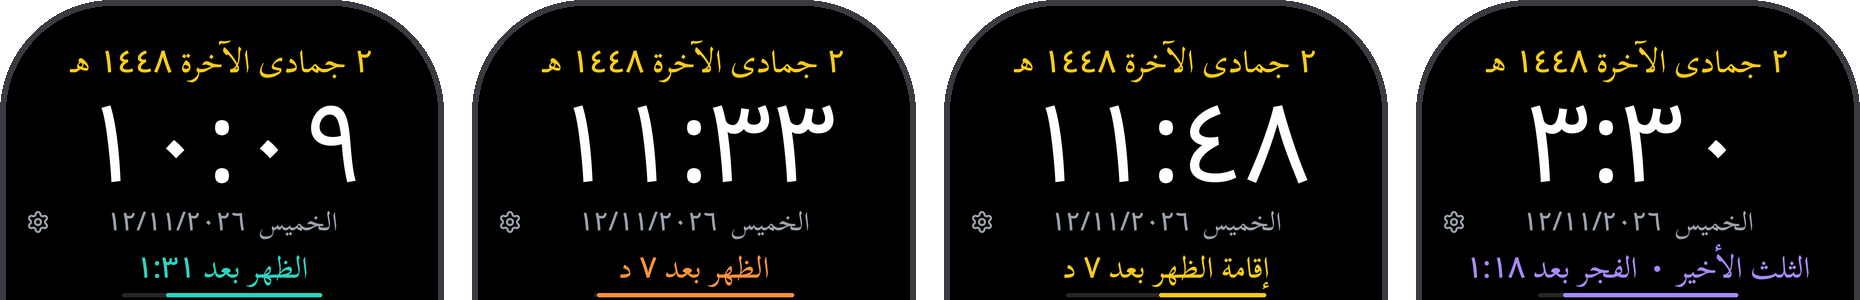
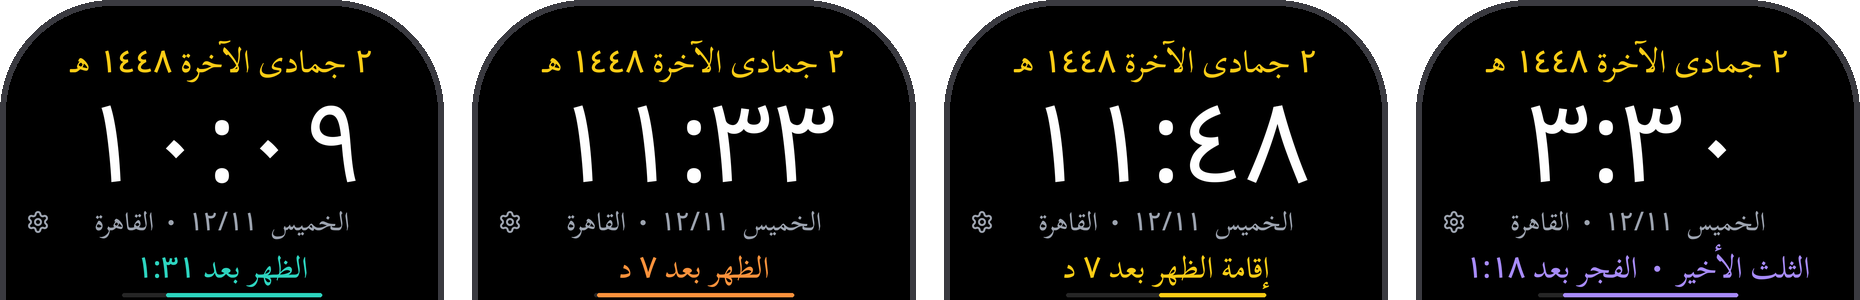
feat(watchface): shorten long place names to fit the date line
The date line beside ⚙ is 336 px, and a full date left 65-97 px for the place, so most city names
(and typed-in coordinates) ran over. With a place the line now drops the year ("Thu 12 Nov  •
Cairo"; the Hijri line has one), and a place that still doesn't fit is cut with "…". Coordinates
lose their ° signs there and fall back to whole degrees instead of being cut; the menu's Location
row shows them exactly, and shortens long city names the same way.

The watch can't measure text in our font, so lib/i18n/text.js adds up estimated character widths
from lib/text-width.js. tools/gen-text-width.py generates them by shaping every date and city name
with HarfBuzz (Naskh for Arabic, Noto Sans standing in for the system font), with a margin on
letters, and a reserve for a cut Arabic name's wider final letter. It then builds every city's
date line on each language's three widest dates with the face's own code and fails if any is
wider than the box in the real font. On those dates 13-30% of names are shortened.

The README screenshots and the picker preview now show the place, as the face does.

diff --git a/prayer-times-watchface/lib/i18n/text.js b/prayer-times-watchface/lib/i18n/text.js
@@ -2,6 +2,7 @@
 // and the docs/preview generators (tools/*.mjs), so screenshots show the face's own text.
 // digits(s): the face's digit style (Arabic-Indic or Latin) applied to a string.
 import { LANGS, DEFAULT_LANG } from './index.js'
+import { TEXT_WIDTH } from '../text-width.js'
 
 export const strings = (lang) => LANGS[lang] || LANGS[DEFAULT_LANG]
 
@@ -19,10 +20,44 @@ const pad = (n) => (n < 10 ? '0' + n : '' + n)
 export const hijriLine = (T, h, digits) =>
   line(T, T.hijriDate({ d: digits(h.day), mon: T.hijriMonths[h.month - 1], m: digits(h.month), y: digits(h.year) }))
 
+// Estimated width of s in px at the font's TEXT_WIDTH size (lib/text-width.js, generated)
+const estimate = (font, s) => {
+  let w = 0
+  for (const c of s) w += font.w[c] || font.other
+  return w
+}
+
+// s cut with "…" until the estimate fits room (px at TEXT_WIDTH.size); s itself when it fits.
+// font.cut: extra room a cut needs (an Arabic letter before "…" takes its wider final form).
+export function fitText(font, s, room) {
+  if (estimate(font, s) <= room) return s
+  const ellipsis = estimate(font, '…') + font.cut
+  let n = s.length
+  while (n > 1 && estimate(font, s.slice(0, n)) + ellipsis > room) n--
+  return s.slice(0, n).trimEnd() + '…'
+}
+
+// s shortened with "…" to fit box ({ w, text_size }, a lib/layout.js text box), in T's font
+export function fitBox(T, s, box) {
+  return fitText(TEXT_WIDTH[T.rtl ? 'naskh' : 'system'], s, box.w * TEXT_WIDTH.size / box.text_size)
+}
+
+// The date line: "Thu 12 Nov 2026", or with a place "Thu 12 Nov  •  Cairo" (no year: the Hijri line
+// above has one, and the place needs the room). place: a string, or candidates longest first (e.g.
+// coordinates to 0.1°, then to 1°): the first that fits is used. box ({ w, text_size }, the date
+// line's lib/layout.js box) shortens the last candidate to fit; without it the first is kept whole.
 // weekday: 0 = Sunday; month 1-12
-export const gregLine = (T, { weekday, d, m, y }, digits, place) =>
-  line(T, T.date({ wd: T.weekdays[weekday], d: digits(d), mon: T.months[m - 1], m: digits(m), y: digits(y) }) +
-    (place ? `  •  ${place}` : ''))
+export function gregLine(T, { weekday, d, m, y }, digits, place, box) {
+  const p = { wd: T.weekdays[weekday], d: digits(d), mon: T.months[m - 1], m: digits(m), y: digits(y) }
+  const places = Array.isArray(place) ? place : [place]
+  if (!places[0]) return line(T, T.date(p))
+  const date = `${T.dateShort(p)}  •  `
+  if (!box) return line(T, date + places[0])
+  const font = TEXT_WIDTH[T.rtl ? 'naskh' : 'system']
+  const room = box.w * TEXT_WIDTH.size / box.text_size - estimate(font, date)
+  const fits = places.find((s) => estimate(font, s) <= room)
+  return line(T, date + (fits || fitText(font, places[places.length - 1], room)))
+}
 
 // Prayer name, Jumu'ah for Dhuhr on Fridays
 export const prayerName = (T, k, isFriday) => (k === 'dhuhr' && isFriday ? T.jumuah : T.prayers[k])

diff --git a/prayer-times-watchface/lib/text-width.js b/prayer-times-watchface/lib/text-width.js
@@ -1,0 +1,6 @@
+// GENERATED by tools/gen-text-width.py. Do not edit.
+// Estimated advance width of each character on the date line, in px at text size `size`, per font
+// (naskh: Arabic; system: the other languages), with a safety margin built in; `other` for
+// characters not listed, `cut` the extra room a shortened name needs. lib/i18n/text.js uses it
+// to shorten a long place name.
+export const TEXT_WIDTH = {"size":26,"naskh":{"cut":6,"other":26.6,"w":{" ":6.8,"'":4.6,"(":10.5,")":10.5,",":6.0,"-":7.9,".":7.1,"/":10.0,"0":14.9,"1":14.9,"2":14.9,"3":14.9,"4":14.9,"5":14.9,"6":14.9,"7":14.9,"8":14.9,"9":14.9,"A":19.5,"B":17.8,"C":18.5,"D":19.5,"E":16.9,"F":15.5,"G":20.0,"H":20.0,"I":9.4,"J":11.5,"K":20.0,"L":16.9,"M":24.5,"N":19.3,"O":20.0,"P":15.5,"Q":20.0,"R":18.5,"S":15.0,"T":17.0,"U":19.5,"V":19.5,"W":26.2,"X":19.5,"Y":19.5,"Z":17.0,"`":8.6,"a":12.5,"b":14.0,"c":12.2,"d":14.0,"e":12.1,"f":9.2,"g":13.8,"h":14.1,"i":7.9,"j":8.1,"k":14.1,"l":8.1,"m":21.8,"n":14.1,"o":13.6,"p":14.0,"q":14.0,"r":10.1,"s":10.9,"t":8.2,"u":14.1,"v":13.6,"w":19.7,"x":13.7,"y":13.7,"z":12.4,"،":12.0,"ء":12.1,"آ":6.6,"أ":7.4,"ؤ":11.0,"إ":6.8,"ئ":8.9,"ا":7.4,"ب":8.7,"ة":11.8,"ت":12.6,"ث":8.7,"ج":21.6,"ح":21.4,"خ":21.5,"د":14.7,"ذ":14.4,"ر":9.7,"ز":10.1,"س":22.5,"ش":21.5,"ص":26.6,"ض":26.4,"ط":19.3,"ظ":19.4,"ع":13.8,"غ":15.3,"ف":13.8,"ق":12.1,"ك":19.1,"ل":9.0,"م":14.0,"ن":11.2,"ه":14.6,"و":10.6,"ى":22.8,"ي":10.4,"٠":14.9,"١":14.9,"٢":14.9,"٣":14.9,"٤":14.9,"٥":14.9,"٦":14.9,"٧":14.9,"٨":14.9,"٩":14.9,"•":6.8,"…":24.3}},"system":{"cut":0,"other":25.0,"w":{" ":7.0,"'":5.1,",":7.2,"-":8.5,".":7.2,"/":10.0,"0":15.3,"1":15.3,"2":15.3,"3":15.3,"5":15.3,"6":15.3,"8":15.3,"9":15.3,"A":17.1,"B":17.4,"C":16.9,"D":19.5,"E":14.9,"F":13.9,"G":19.5,"H":19.8,"I":9.1,"J":7.3,"K":16.6,"L":14.0,"M":24.3,"N":20.4,"O":20.9,"P":16.2,"Q":20.9,"R":16.7,"S":14.7,"T":13.5,"U":19.6,"V":15.8,"W":24.4,"X":15.7,"Y":14.0,"Z":15.3,"`":7.5,"a":15.0,"b":16.5,"c":12.9,"d":16.5,"e":15.1,"f":9.1,"g":16.5,"h":16.5,"i":6.9,"j":6.9,"k":14.3,"l":6.9,"m":25.0,"n":16.5,"o":16.2,"p":16.5,"q":16.5,"r":10.6,"s":12.8,"t":9.7,"u":16.5,"v":13.5,"w":21.1,"x":14.1,"y":13.7,"z":12.6,"Ç":16.9,"é":14.8,"û":16.5,"ğ":16.5,"Ş":14.7,"В":17.4,"К":16.5,"П":19.6,"С":17.1,"Ч":18.0,"а":14.9,"б":16.0,"в":15.1,"г":11.7,"д":16.3,"е":14.8,"и":16.6,"к":14.2,"л":15.7,"м":20.6,"н":16.4,"о":15.8,"п":16.2,"р":16.3,"с":13.1,"т":12.5,"ф":19.7,"ю":21.4,"я":15.5,"٠":16.1,"١":16.1,"٢":16.1,"٣":16.1,"٥":16.1,"٦":16.1,"٨":16.1,"٩":16.1,"•":10.1,"…":21.2}}}

diff --git a/prayer-times-watchface/watchface/index.js b/prayer-times-watchface/watchface/index.js
@@ -20,7 +20,7 @@ import { WEATHER_ICONS } from '../lib/weather-icons.js'
 import { layout, DESIGN } from '../lib/layout.js'
 import { resolveLang } from '../lib/i18n/index.js'
 import {
-  strings, line, hijriLine, gregLine, prayerName, nextLine, extraItems, rangeLine, MAKRUH_KEYS,
+  strings, line, hijriLine, gregLine, fitBox, prayerName, nextLine, extraItems, rangeLine, MAKRUH_KEYS,
 } from '../lib/i18n/text.js'
 
 const { createWidget, deleteWidget, widget, align, prop, show_level, event } = ui
@@ -83,7 +83,8 @@ function fmtClock(minOfDay) {
   return S.is24h ? pad(h) + ':' + mm : (h % 12 || 12) + ':' + mm
 }
 const fmtTime = (min) => (isNaN(min) ? '—' : digits(fmtClock(min)))
-const fmtCoord = (v) => (v < 0 ? '-' : '') + digits(Math.abs(v).toFixed(1))
+// a coordinate to `decimals` places, with no sign when it rounds to zero (-0.04 → 0.0)
+const fmtCoord = (v, decimals = 1) => (Number(v.toFixed(decimals)) < 0 ? '-' : '') + digits(Math.abs(v).toFixed(decimals))
 
 // Local timezone offset in hours, derived from the Time sensor so it follows the
 // phone's timezone and DST without relying on QuickJS's Date timezone support.
@@ -439,7 +440,7 @@ WatchFace({
       watchLang: () => resolveLang('auto', watchLanguage()),
       digits,
       accent: C_TEAL,
-      place: () => state.place || T.fromApp,
+      place: () => fitBox(T, state.place || T.fromApp, LY.menu.row[0].value), // the Location row's value
       message: (s) => menu.message(s),
       close: () => menu.close(),
       changed: () => { settingsChanged = true },
@@ -529,9 +530,12 @@ WatchFace({
         place: loc.source === 'fallback' ? T.fallbackPlace
           : loc.source === 'city' ? (!T.rtl && loc.latin) || loc.name
           : loc.source === 'coords' ? T.coords(fmtCoord(loc.lat), fmtCoord(loc.lon)) : '',
+        // the date line falls back to whole degrees when 0.1° doesn't fit (the menu shows them exactly)
+        placeLine: loc.source === 'coords'
+          ? [T.coords(fmtCoord(loc.lat), fmtCoord(loc.lon)), T.coords(fmtCoord(loc.lat, 0), fmtCoord(loc.lon, 0))] : null,
         cc: loc.cc,
       }
-      const greg = gregLine(T, { weekday: time.getDay() % 7, d, m, y }, digits, state.place) // getDay(): Monday = 1
+      const greg = gregLine(T, { weekday: time.getDay() % 7, d, m, y }, digits, state.placeLine || state.place, LY.greg) // getDay(): Monday = 1
       setText(w.aodGreg, greg)
       if (w.time) {
         for (const k of PRAYER_ORDER) {

diff --git a/prayer-times-watchface/lib/i18n/ar.js b/prayer-times-watchface/lib/i18n/ar.js
@@ -14,6 +14,7 @@ export default {
   // { d, y }: formatted numbers; mon: month name; m: formatted month number; wd: weekday
   hijriDate: (p) => `${p.d} ${p.mon} ${p.y} هـ`,
   date: (p) => `${p.wd}  ${p.d}/${p.m}/${p.y}`,
+  dateShort: (p) => `${p.wd}  ${p.d}/${p.m}`, // without the year: the date line when a place follows it
   nextIn: (prayer, left) => `${prayer} بعد ${left}`,
   iqamaIn: (prayer, left) => `إقامة ${prayer} بعد ${left}`,
   minutes: (n) => `${n} د`,
@@ -27,7 +28,7 @@ export default {
   makruh: { dawn: 'من الفجر', sunrise: 'الشروق', zawal: 'الاستواء', afterAsr: 'بعد العصر', sunset: 'الغروب' },
   fallbackPlace: 'القاهرة', // config.js's fallback location
   fromApp: 'التطبيق', // place shown when the companion app's location is used
-  coords: (lat, lon) => `${lat}°، ${lon}°`, // typed-in coordinates on the date line; numbers already formatted
+  coords: (lat, lon) => `${lat}،${lon}`, // typed-in coordinates on the date line; numbers already formatted
   methods: {
     egypt: 'الهيئة المصرية', makkah: 'أم القرى', mwl: 'رابطة العالم', karachi: 'كراتشي',
     isna: 'أمريكا الشمالية', dubai: 'دبي', kuwait: 'الكويت', qatar: 'قطر', singapore: 'سنغافورة',

diff --git a/prayer-times-watchface/lib/i18n/ru.js b/prayer-times-watchface/lib/i18n/ru.js
@@ -12,6 +12,7 @@ export default {
   weekdays: ['Вс', 'Пн', 'Вт', 'Ср', 'Чт', 'Пт', 'Сб'],
   hijriDate: (p) => `${p.d} ${p.mon} ${p.y} г. х.`,
   date: (p) => `${p.wd} ${p.d} ${p.mon} ${p.y}`,
+  dateShort: (p) => `${p.wd} ${p.d} ${p.mon}`,
   nextIn: (prayer, left) => `${prayer} через ${left}`,
   iqamaIn: (prayer, left) => `Икама (${prayer}) через ${left}`,
   minutes: (n) => `${n} мин`,
@@ -25,7 +26,7 @@ export default {
   makruh: { dawn: 'После Фаджра', sunrise: 'Восход', zawal: 'Зенит', afterAsr: 'После Асра', sunset: 'Закат' },
   fallbackPlace: 'Каир',
   fromApp: 'Приложение',
-  coords: (lat, lon) => `${lat}°, ${lon}°`,
+  coords: (lat, lon) => `${lat},${lon}`,
   methods: {
     egypt: 'Египет', makkah: 'Умм аль-Кура', mwl: 'Всемирная исламская лига', karachi: 'Карачи',
     isna: 'ISNA', dubai: 'Дубай', kuwait: 'Кувейт', qatar: 'Катар', singapore: 'Сингапур',

diff --git a/prayer-times-watchface/lib/i18n/tr.js b/prayer-times-watchface/lib/i18n/tr.js
@@ -12,6 +12,7 @@ export default {
   weekdays: ['Paz', 'Pzt', 'Sal', 'Çar', 'Per', 'Cum', 'Cmt'],
   hijriDate: (p) => `${p.d} ${p.mon} ${p.y}`,
   date: (p) => `${p.wd} ${p.d} ${p.mon} ${p.y}`,
+  dateShort: (p) => `${p.wd} ${p.d} ${p.mon}`,
   // "vakti" keeps the suffix the same for every prayer name
   nextIn: (prayer, left) => `${prayer} vaktine ${left}`,
   iqamaIn: (prayer, left) => `${prayer} kametine ${left}`,
@@ -26,7 +27,7 @@ export default {
   makruh: { dawn: 'İmsaktan', sunrise: 'Güneş', zawal: 'İstiva', afterAsr: 'İkindiden', sunset: 'Gün batımı' },
   fallbackPlace: 'Kahire',
   fromApp: 'Uygulama',
-  coords: (lat, lon) => `${lat}°, ${lon}°`,
+  coords: (lat, lon) => `${lat},${lon}`,
   methods: {
     egypt: 'Mısır', makkah: "Ümmü'l-Kura", mwl: 'Rabıta', karachi: 'Karaçi',
     isna: 'ISNA', dubai: 'Dubai', kuwait: 'Kuveyt', qatar: 'Katar', singapore: 'Singapur',

diff --git a/prayer-times-watchface/lib/i18n/fr.js b/prayer-times-watchface/lib/i18n/fr.js
@@ -12,6 +12,7 @@ export default {
   weekdays: ['dim.', 'lun.', 'mar.', 'mer.', 'jeu.', 'ven.', 'sam.'],
   hijriDate: (p) => `${p.d} ${p.mon} ${p.y} H`,
   date: (p) => `${p.wd} ${p.d} ${p.mon} ${p.y}`,
+  dateShort: (p) => `${p.wd} ${p.d} ${p.mon}`,
   nextIn: (prayer, left) => `${prayer} dans ${left}`,
   iqamaIn: (prayer, left) => `Iqama ${prayer} dans ${left}`,
   minutes: (n) => `${n} min`,
@@ -25,7 +26,7 @@ export default {
   makruh: { dawn: 'Après Fajr', sunrise: 'Lever', zawal: 'Zénith', afterAsr: 'Après Asr', sunset: 'Coucher' },
   fallbackPlace: 'Le Caire',
   fromApp: 'Appli',
-  coords: (lat, lon) => `${lat}°, ${lon}°`,
+  coords: (lat, lon) => `${lat},${lon}`,
   methods: {
     egypt: 'Égypte', makkah: 'Umm al-Qura', mwl: 'Ligue islamique mondiale', karachi: 'Karachi',
     isna: 'ISNA', dubai: 'Dubaï', kuwait: 'Koweït', qatar: 'Qatar', singapore: 'Singapour',

diff --git a/prayer-times-watchface/lib/i18n/ms.js b/prayer-times-watchface/lib/i18n/ms.js
@@ -12,6 +12,7 @@ export default {
   weekdays: ['Ahd', 'Isn', 'Sel', 'Rab', 'Kha', 'Jum', 'Sab'],
   hijriDate: (p) => `${p.d} ${p.mon} ${p.y}H`,
   date: (p) => `${p.wd} ${p.d} ${p.mon} ${p.y}`,
+  dateShort: (p) => `${p.wd} ${p.d} ${p.mon}`,
   nextIn: (prayer, left) => `${prayer} dalam ${left}`,
   iqamaIn: (prayer, left) => `Iqamah ${prayer} dalam ${left}`,
   minutes: (n) => `${n} min`,
@@ -25,7 +26,7 @@ export default {
   makruh: { dawn: 'Selepas Subuh', sunrise: 'Syuruk', zawal: 'Istiwa', afterAsr: 'Selepas Asar', sunset: 'Terbenam' },
   fallbackPlace: 'Kaherah',
   fromApp: 'Aplikasi',
-  coords: (lat, lon) => `${lat}°, ${lon}°`,
+  coords: (lat, lon) => `${lat},${lon}`,
   methods: {
     egypt: 'Mesir', makkah: 'Umm al-Qura', mwl: 'Liga Muslim Sedunia', karachi: 'Karachi',
     isna: 'ISNA', dubai: 'Dubai', kuwait: 'Kuwait', qatar: 'Qatar', singapore: 'Singapura',

diff --git a/prayer-times-watchface/lib/i18n/id.js b/prayer-times-watchface/lib/i18n/id.js
@@ -12,6 +12,7 @@ export default {
   weekdays: ['Min', 'Sen', 'Sel', 'Rab', 'Kam', 'Jum', 'Sab'],
   hijriDate: (p) => `${p.d} ${p.mon} ${p.y} H`,
   date: (p) => `${p.wd} ${p.d} ${p.mon} ${p.y}`,
+  dateShort: (p) => `${p.wd} ${p.d} ${p.mon}`,
   nextIn: (prayer, left) => `${prayer} dalam ${left}`,
   iqamaIn: (prayer, left) => `Iqamah ${prayer} dalam ${left}`,
   minutes: (n) => `${n} mnt`,
@@ -25,7 +26,7 @@ export default {
   makruh: { dawn: 'Setelah Subuh', sunrise: 'Terbit', zawal: 'Istiwa', afterAsr: 'Setelah Asar', sunset: 'Terbenam' },
   fallbackPlace: 'Kairo',
   fromApp: 'Aplikasi',
-  coords: (lat, lon) => `${lat}°, ${lon}°`,
+  coords: (lat, lon) => `${lat},${lon}`,
   methods: {
     egypt: 'Mesir', makkah: 'Umm al-Qura', mwl: 'Liga Muslim Dunia', karachi: 'Karachi',
     isna: 'ISNA', dubai: 'Dubai', kuwait: 'Kuwait', qatar: 'Qatar', singapore: 'Singapura',

diff --git a/prayer-times-watchface/lib/i18n/en.js b/prayer-times-watchface/lib/i18n/en.js
@@ -12,6 +12,7 @@ export default {
   weekdays: ['Sun', 'Mon', 'Tue', 'Wed', 'Thu', 'Fri', 'Sat'],
   hijriDate: (p) => `${p.d} ${p.mon} ${p.y} AH`,
   date: (p) => `${p.wd} ${p.d} ${p.mon} ${p.y}`,
+  dateShort: (p) => `${p.wd} ${p.d} ${p.mon}`,
   nextIn: (prayer, left) => `${prayer} in ${left}`,
   iqamaIn: (prayer, left) => `${prayer} iqama in ${left}`,
   minutes: (n) => `${n} min`,
@@ -25,7 +26,7 @@ export default {
   makruh: { dawn: 'After Fajr', sunrise: 'Sunrise', zawal: 'Zenith', afterAsr: 'After Asr', sunset: 'Sunset' },
   fallbackPlace: 'Cairo',
   fromApp: 'App',
-  coords: (lat, lon) => `${lat}°, ${lon}°`,
+  coords: (lat, lon) => `${lat},${lon}`,
   methods: {
     egypt: 'Egypt', makkah: 'Umm al-Qura', mwl: 'Muslim World League', karachi: 'Karachi',
     isna: 'ISNA', dubai: 'Dubai', kuwait: 'Kuwait', qatar: 'Qatar', singapore: 'Singapore',

diff --git a/prayer-times-watchface/tools/gen-text-width.py b/prayer-times-watchface/tools/gen-text-width.py
@@ -1,0 +1,119 @@
+"""Writes lib/text-width.js: estimated character widths for the date line, so the face can shorten a
+long place name to fit (lib/i18n/text.js gregLine). The watch has no way to measure text in our
+font, so it adds up these widths instead.
+
+Every string that can appear on the date line (tools/date-line-texts.mjs) is shaped with HarfBuzz in
+the font that draws it, at the date line's design text size: the bundled Naskh font for Arabic, and
+Noto Sans as a stand-in for the watch's system font for the other languages. Each character's width
+is its average shaped advance over all of them, so an Arabic letter's width averages its joined
+forms. A safety factor is built into the widths of the characters whose estimate can be off: letters
+in Naskh (Arabic joined forms, and kerned Latin in cities without an Arabic name), and every
+character of the system font (it isn't really Noto Sans). Digits and punctuation in Naskh are exact,
+so dates and coordinates aren't penalised.
+
+Then it checks the result: every city's date line on each language's widest dates, built by the
+face's own code, must fit the date line's box in the real font. A cut name's last Arabic letter takes
+its (wider) final form, so each font has a `cut` reserve, raised until every line fits.
+
+Run: python3 -I tools/gen-text-width.py (via `mise run :gen`).
+"""
+import json
+import subprocess
+import sys
+from collections import defaultdict
+from pathlib import Path
+
+sys.path.insert(0, str(Path(__file__).resolve().parent))  # -I drops the script dir
+import uharfbuzz as hb  # noqa: E402
+import uax9  # noqa: E402
+
+from render import LATIN_FONT, ROOT, SCALE, device, font  # noqa: E402
+
+# Widths are multiplied by SAFETY where it applies (see above); printed below: how often the estimate
+# covers a string's real width
+SAFETY = {"naskh": 1.15, "system": 1.03}
+
+
+def safety(key, ch):
+    return SAFETY[key] if key == "system" or ch.isalpha() else 1
+
+
+def widths(f, texts, rtl):
+    """Average advance per character (px at the font's size / SCALE)."""
+    total, count = defaultdict(float), defaultdict(int)
+    for t in texts:
+        for text, run_rtl in uax9.runs(t, rtl):
+            buf = hb.Buffer()
+            buf.add_str(text)
+            buf.guess_segment_properties()
+            buf.direction = "rtl" if run_rtl else "ltr"
+            hb.shape(f.hb, buf, {})
+            clusters = defaultdict(float)
+            for info, pos in zip(buf.glyph_infos, buf.glyph_positions):
+                clusters[info.cluster] += pos.x_advance / 64 / SCALE
+            starts = sorted(clusters)
+            for i, c in enumerate(starts):  # a ligature's advance is shared by its characters
+                seg = text[c:starts[i + 1] if i + 1 < len(starts) else len(text)]
+                for ch in seg:
+                    total[ch] += clusters[c] / len(seg)
+                    count[ch] += 1
+    return {ch: total[ch] / count[ch] for ch in total}
+
+
+def main():
+    dev = device()
+    size = dev.L["greg"]["text_size"]
+    texts = json.loads(subprocess.check_output(["node", str(ROOT / "tools" / "date-line-texts.mjs")], cwd=ROOT))
+    out = {"size": size}
+    for key, path, rtl in (("naskh", dev.arabic_font, True), ("system", LATIN_FONT, False)):
+        f = font(path, size * SCALE)
+        w = {c: v * safety(key, c) for c, v in widths(f, texts[key], rtl).items()}
+        est = lambda s: sum(w[c] for c in s)  # noqa: E731
+        ratios = sorted(f.width(t, rtl) / SCALE / est(t) for t in texts[key] if est(t) > 20)
+        covered = sum(r <= 1 for r in ratios) * 100 / len(ratios)
+        print(f"{key}: {len(w)} characters, the estimate covers {covered:.1f}% of {len(ratios)} strings "
+              f"(worst: real = {ratios[-1]:.2f} × estimate)")
+        out[key] = {"cut": 0, "other": round(max(w.values()), 1), "w": {c: round(v, 1) for c, v in sorted(w.items())}}
+    while True:
+        write(out)
+        over = check(dev)
+        if not over:
+            break
+        for key in {"naskh" if lang == "ar" else "system" for lang, _, _ in over}:
+            if out[key]["cut"] >= 40:
+                sys.exit(f"date lines wider than the box: {over[:5]}")
+            out[key]["cut"] += 2
+    print(f"cut reserve: naskh {out['naskh']['cut']} px, system {out['system']['cut']} px")
+
+
+def write(out):
+    js = ("// GENERATED by tools/gen-text-width.py. Do not edit.\n"
+          "// Estimated advance width of each character on the date line, in px at text size `size`, per font\n"
+          "// (naskh: Arabic; system: the other languages), with a safety margin built in; `other` for\n"
+          "// characters not listed, `cut` the extra room a shortened name needs. lib/i18n/text.js uses it\n"
+          "// to shorten a long place name.\n"
+          f"export const TEXT_WIDTH = {json.dumps(out, ensure_ascii=False, separators=(',', ':'))}\n")
+    (ROOT / "lib" / "text-width.js").write_text(js)
+
+
+def check(dev):
+    """[(lang, width, line)] of the face's date lines wider than their box."""
+    check = json.loads(subprocess.check_output(["node", str(ROOT / "tools" / "date-line-texts.mjs"), "--lines"], cwd=ROOT))
+    box = check["box"]
+    over = []
+    for lang, lines in check["lines"].items():
+        rtl = lang == "ar"  # lib/i18n: the only right-to-left language
+        f = font(dev.arabic_font if rtl else LATIN_FONT, box["text_size"] * SCALE)
+        widest = 0
+        for s in lines:
+            w = f.width(s.lstrip("\u200f"), rtl) / SCALE  # line() may start with an RLM
+            widest = max(widest, w)
+            if w > box["w"]:
+                over.append((lang, round(w), s))
+        cut = sum(s.endswith("…") for s in lines)
+        print(f"  {lang}: {len(lines)} date lines, widest {round(widest)} of {box['w']} px, {cut * 100 // len(lines)}% shortened")
+    return over
+
+
+if __name__ == "__main__":
+    main()

diff --git a/prayer-times-watchface/README.md b/prayer-times-watchface/README.md
@@ -3,7 +3,7 @@
 An offline Zepp OS watchface for the Bip Max (432×514, deviceSource `11206915`). It shows:
 - the time
 - the Hijri date (Umm al-Qura)
-- the Gregorian date
+- the Gregorian date and the place the times are for
 - the next prayer with a countdown
 - all six times, with the next one highlighted
 
@@ -105,6 +105,10 @@ Time sensor ──► date + timezone ──► dayEvents() × yesterday / today
 
 ![Settings menu in English](../docs/watchface/menu-en.png)
 
+**Date line:** "Thu 12 Nov 2026", or with a place "Thu 12 Nov  •  Cairo": the year is dropped then (the Hijri line above has one), since the line beside ⚙ is only 336 px. A place that still doesn't fit is cut with "…"; typed-in coordinates fall back to whole degrees instead ("34,-118"), and the menu's Location row shows them exactly.
+- **Measuring:** the watch can't measure text in our font, so `lib/i18n/text.js` adds up estimated character widths from `lib/text-width.js`. `tools/gen-text-width.py` generates them by shaping every date and city name with HarfBuzz, in the bundled Naskh font for Arabic and in Noto Sans as a stand-in for the system font. Letters get a 15% (Naskh) or 3% (system font) margin. A cut Arabic name gets 6 px more, because its last letter takes its wider final form.
+- **Check:** the generator builds every city's date line on each language's three widest dates with the face's own code. It fails if any line is wider than the box in the real font. On those dates, 13–30% of city names are shortened, depending on the language. The menu's Location row shortens long names the same way.
+
 **Always-on display:** a separate `ONLY_AOD` layer shows the Hijri date, the time, the Gregorian date line and the next-prayer line in dim grey with no fills (few lit pixels). It's updated by the same refresh as the normal layer.
 
 **Weather:** the condition icon and the temperature are drawn by the firmware, so the face's code reads no weather. An earlier version read today's forecast (the legacy `hmSensor` weather sensor) for a condition word, which didn't show on the Bip Max.
@@ -138,6 +142,7 @@ devices.json               ← the screens the face is built for (one app.json t
 config.js                  ← defaults (fallback location, and defaults for the face-menu settings)
 
 lib/layout.js              ← every box the face draws, scaled from the Bip Max design to the screen
+lib/text-width.js          ← GENERATED estimated character widths, to shorten long place names (tools/gen-text-width.py)
 lib/prayer.js              ← adhan-js wrapper (npm, MIT, bundled by zeus) → local minutes; night portions, makruh windows
 lib/countdown.js           ← countdown line: next prayer, iqama, progress, last 10 min, last third of the night
 lib/hijri.js               ← Hijri conversion (Umm al-Qura table + tabular fallback)
@@ -160,6 +165,7 @@ tools/gen-preview.py       ← renders assets/<target>/icon.png (picker preview,
 tools/render.py            ← shared drawing for the above (boxes from lib/layout.js via tools/layout-data.mjs)
 tools/layout-data.mjs      ← prints lib/layout.js's boxes for one devices.json target, for the Python generators
 tools/uax9.py              ← Unicode bidi runs for render.py (what FriBiDi does inside libraqm)
+tools/gen-text-width.py    ← lib/text-width.js from every date-line string (tools/date-line-texts.mjs), then checks every city's date line fits
 tools/preview-data.mjs     ← sample face data for the previews, computed by lib/
 tools/gen-docs.py          ← README screenshots in ../docs/watchface/ (scenes from tools/docs-data.mjs)
 tools/gen-cities.py        ← city list from GeoNames (`mise run :gen-cities`, not part of :build; tools/fetch-geonames.sh downloads ~210 MB)
